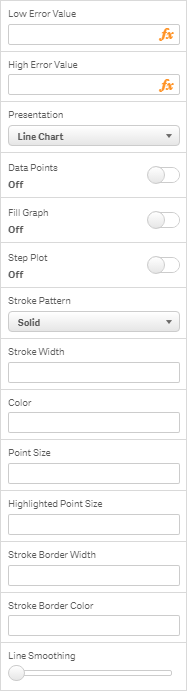
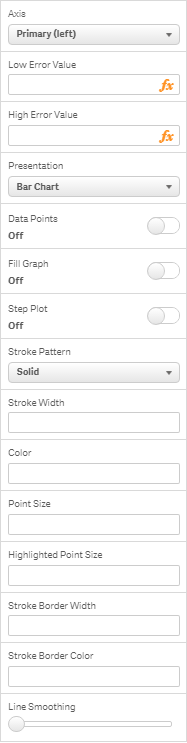
Added secondary y-axis options, updated docs
- Added option to assign a data series to either the primary or
secondary y-axis (per-series options)
- Added display options for secondary y-axis gridlines and ticks
- Updated documentation and screenshots of properties panel

Changed region(s): [[0.0267, 0.0, 0.9893, 1.0], [0.9358, 0.3647, 0.9626, 0.3951]]

diff --git a/qs-dygraphs/properties.js b/qs-dygraphs/properties.js
@@ -8,6 +8,21 @@ define([], function () {
         min: 1,
         max: 2
     };
+    // Axis
+    var axis = {
+        type: "string",
+        component:"dropdown",
+        ref: "qDef.props.axis",
+        label: "Axis",
+        options: [{
+            label: "Primary (left)",
+            value: "y1"
+        }, {
+            label: "Secondary (right)",
+            value: "y2"
+        }],
+        defaultValue: "y1"
+    };
     // Error Bar Values
     var lowErrorVal = {
         type: "string",
@@ -149,6 +164,8 @@ define([], function () {
         uses: "measures",
         min: 1,
         items: {
+            // Axis
+            axis: axis,
             // Data Series Error Bar Values
             lowErrorVal: lowErrorVal,
             highErrorVal: highErrorVal,
@@ -503,6 +520,36 @@ define([], function () {
         }],
         defaultValue: true
     };
+/*!*/
+    var drawY2Grid = {
+        type: "boolean",
+        component: "switch",
+        ref: "props.drawY2Grid",
+        label: "y2-Axis Gridlines",
+        options: [{
+            value: true,
+            label: "On"
+        }, {
+            value: false,
+            label: "Off"
+        }],
+        defaultValue: false
+    };
+    var independentTicks = {
+        type: "boolean",
+        component: "switch",
+        ref: "props.independentTicks",
+        label: "Independent y-Axes Ticks",
+        options: [{
+            value: true,
+            label: "On"
+        }, {
+            value: false,
+            label: "Off"
+        }],
+        defaultValue: false
+    };
+/*!*/
     var xRangePad = {
         type: "string",
         ref: "props.xRangePad",
@@ -744,6 +791,10 @@ define([], function () {
         items: {
             drawXGrid: drawXGrid,
             drawYGrid: drawYGrid,
+/*!*/
+            drawY2Grid: drawY2Grid,
+            independentTicks: independentTicks,
+/*!*/
             xRangePad: xRangePad,
             yRangePad: yRangePad,
             dateWindow: dateWindow,

diff --git a/qs-dygraphs/qs-dygraphs.globals.js b/qs-dygraphs/qs-dygraphs.globals.js
@@ -173,6 +173,12 @@ function addOptions(layout, data, options, measures) {
     if (layout.props.digitsAfterDecimal !== '') {
         options.digitsAfterDecimal = +layout.props.digitsAfterDecimal;
     }
+    // Draw gridlines for the secondary y-axis
+    if (layout.props.drawY2Grid === true) {
+        options.axes.y2 = options.axes.y2 || {};
+        options.axes.y2.drawGrid = true;
+        options.axes.y2.gridLinePattern = [2,2];
+    }
     // Add fixed number of digits after decimal to options if set in property panel
     if (layout.props.fixedDigitsAfterDecimal != '') {
         options.axes.y.axisLabelFormatter = fixedDigitsAfterDecimal;
@@ -190,6 +196,11 @@ function addOptions(layout, data, options, measures) {
             // strokeBorderWidth: 1,
             highlightCircleSize: 4
         }
+    }
+    // Plot ticks for y-axes independently rather than aligning them
+    if (layout.props.independentTicks === true) {
+        options.axes.y2 = options.axes.y2 || {};
+        options.axes.y2.independentTicks = true;
     }
     // Add number of digits before decimal to options if set in property panel
     if (layout.props.maxNumberWidth !== '') {
@@ -613,6 +624,7 @@ function renderM($element, layout, fullMatrix) {
     layout.props.dataSeries = layout.qHyperCube.qMeasureInfo.reduce(function (o, d) {
 
         o[d.qFallbackTitle] = {
+            'axis'                : d.props.axis,
             'color'               : d.props.color,
             'drawPoints'          : d.props.drawPoints,
             'fillGraph'           : d.props.fillGraph,

diff --git a/README.md b/README.md
@@ -223,6 +223,12 @@ All Data Line Properties options may also be set on a [per-series](#per-series-o
 * **`y-Axis Gridlines`** - Display horizontal gridlines under the chart.
 (_default: On_)
 
+* **`y2-Axis Gridlines`** - Display horizontal gridlines under the chart for the secondary y-axis, when it is enabled.
+(_default: Off_)
+
+* **`Independent y-Axes Ticks`** - Set tick positions for y-axes independently when the secondary y-axis is enabled.&nbsp;&nbsp;By default, ticks on the secondary y-axis are aligned to those of the primary y-axis.
+(_default: Off_)
+
 * **`x-Axis Padding`** - Amount of extra space around the x-axis value range to ensure points at the edges remain visible, in pixels.
 (_float; default: 0_)
 
@@ -289,6 +295,9 @@ Per-Series Options allow you to configure display properties of each plotted dat
 _Per-Series Options (in Measures section)_
 
 [![per-series options](img/props_per-series_small.png)](img/props_per-series.png)
+
+* **`Axis`** - Assign the data series to either the primary y-axis (left) or the secondary y-axis (right).&nbsp;&nbsp;If a data series is assigned to the secondary y-axis, gridlines and ticks for the secondary y-axis may be configured with **`y2-Axis Gridlines`** and **`Independent y-Axes Ticks`**, respectively (see [Axes and Chart Area](#axes-and-chart-area)).<br>
+(_default: Primary_)
 
 * **`Low Error Value`** - Used in conjunction with the **`Error Bars`** setting (see [Data Line Display](#data-line-display)).&nbsp;&nbsp;If set, an error bar will be drawn below each point in the data series between this value and the line plot for the data series.&nbsp;&nbsp;A field or an expression may be used.<br>
 When **`Data Series Source`** is set to Dimension 2 (see [Input Data](#input-data)), an error bar will be displayed below _each_ data series provided by the second dimension.<br>

diff --git a/release-notes-v2.md b/release-notes-v2.md
@@ -39,6 +39,8 @@ Newly added options with brief descriptions are listed below, alphabetically.&nb
 
 - **Highlighted Point Size** - Set the size of dots drawn over highlighted data points.
 
+- **Independent y-Axes Ticks** - Choose whether ticks for y-axes should be aligned or independent when the secondary y-axis is enabled.
+
 - **Legend Display Style** - A dropdown menu replaces the _Always Show Legend_ checkbox.&nbsp;&nbsp;Three options are now available: _Mouseover_, _Always_ and _Follow_ (new)
 
 - **Line Smoothing** - Draw a smooth line between points using Be&#769;zier curves.
@@ -47,7 +49,7 @@ Newly added options with brief descriptions are listed below, alphabetically.&nb
 
 - **Pan Edge Limit** - Limit panning past the range of values on the x-axis when interacting with the chart.
 
-- **Per-Series Options** - Configure display properties for each data series individually (see _Data Series Source_).
+- **Per-Series Options** - Configure display properties for each data series individually.&nbsp;&nbsp;A data series may also be assigned to either the primary or secondary y-axis (see _Data Series Source_).
 
 - **Point Size** - Set the size of dots drawn over data points.
 
@@ -70,6 +72,8 @@ Newly added options with brief descriptions are listed below, alphabetically.&nb
 - **x-Axis Range** - Set the horizontal range of the chart.
 
 - **y-Axis Range** - Set the vertical range of the chart.
+
+- **y2-Axis Gridlines** - Choose whether or not to display horizontal gridlines under the chart for the secondary y-axis when it is enabled.
 
 - **Zoom Animation** - Animate zoom transitions when interacting with the chart.
 

diff --git a/CHANGELOG.md b/CHANGELOG.md
@@ -1,6 +1,12 @@
 # Change Log
 All notable changes to dygraphs for Qlik Sense will be documented in this file.
 
+### \[2.2\] - 2016-02-16
+#### Added
+- Secondary y-axis option for assignment of data series
+- Display options for secondary y-axis gridlines and ticks
+- Updated documentation and screenshots of properties panel
+
 ### \[2.2\] - 2016-02-15
 #### Added
 - Boxplot Chart presentation option for data line display
